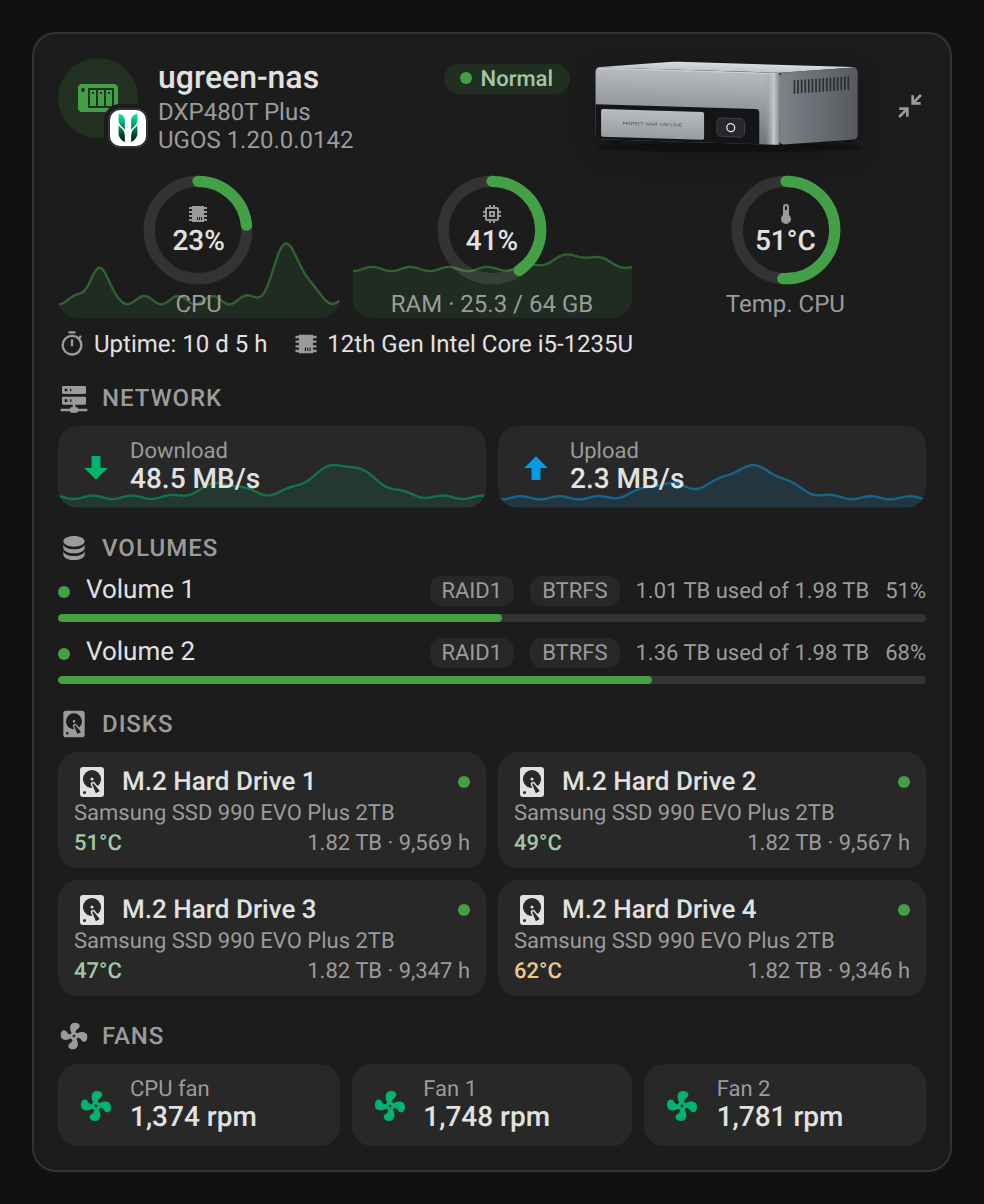
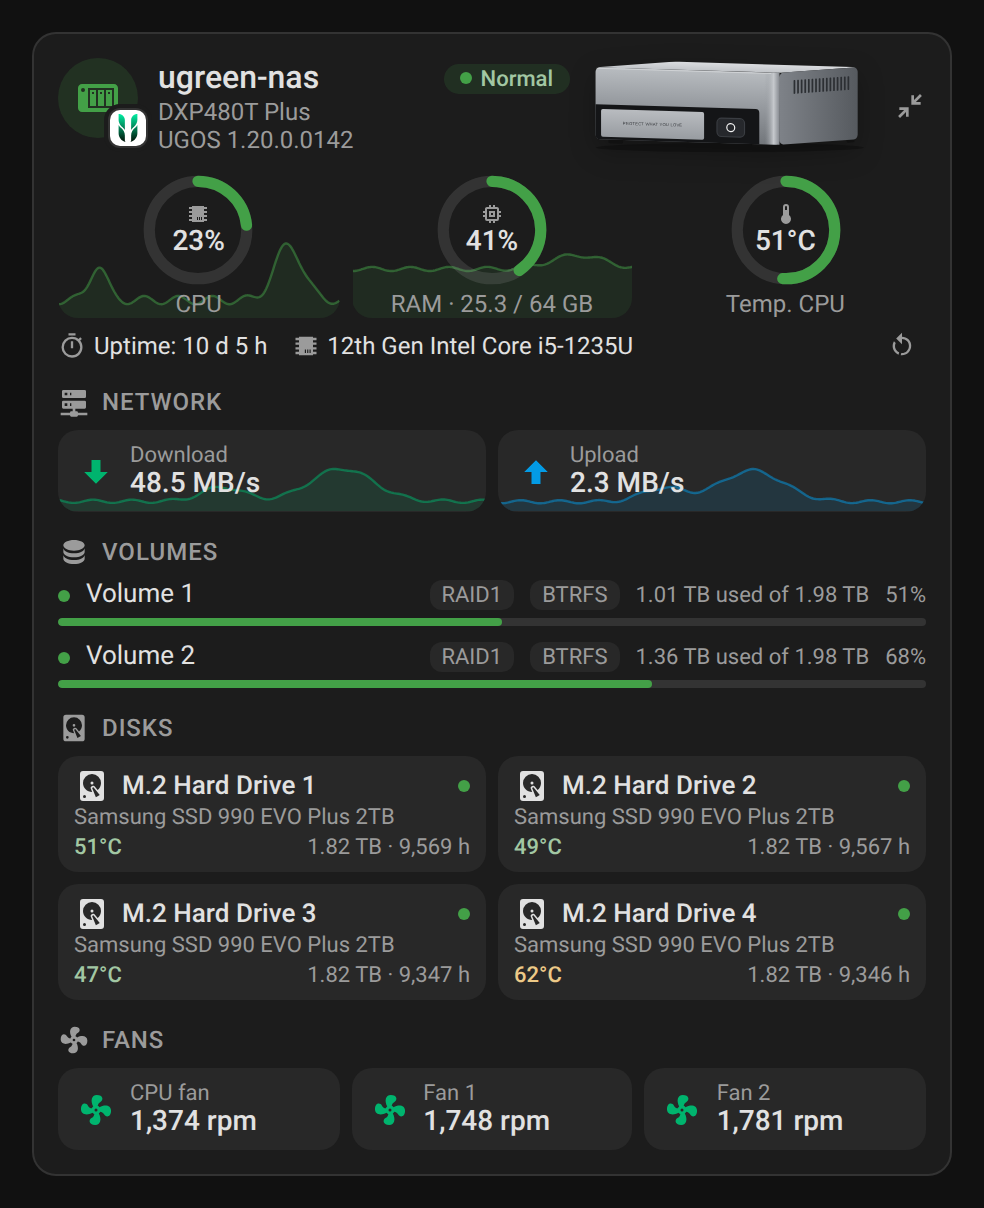
feat: UGREEN update chip and reboot button, UGOS version id of v2026.10.1 (1.21.0) (#70)
UGOS version read from nas_ugos_version or ugos_version (integration v2026.10.1), « Update available » chip from the Update Available sensor, reboot button from power_action_reboot matched to its NAS.

Claude-Session: https://claude.ai/code/session_01F4sAmz9SYNMBup1iWyQ3CQ

diff --git a/src/nas-card.js b/src/nas-card.js
@@ -1736,7 +1736,9 @@ const SFX = "(?:_\\d+)?$";
 const SCALARS = {
   name: "nas_name",
   model: "nas_model",
-  version: "nas_ugos_version",
+  // "NAS UGOS Version" became "UGOS Version" in the integration's v2026.10.1 (same key, so existing
+  // installs keep the old id); a NAS adopted since then gets "<prefix>_ugos_version".
+  version: "(?:nas_)?ugos_version",
   server_status: "server_status",
   system_message: "system_message",
   cpu_usage: "cpu_usage",
@@ -1749,8 +1751,11 @@ const SCALARS = {
   lan_up: "overall_lan_upload_raw",
   lan_down: "overall_lan_download_raw",
   cpu_fan: "cpu_fan",
+  update: "update_available", // "Update Available" (v2026.10.1): "True" while a newer UGOS is out.
 };
 const SCALAR_RE = Object.entries(SCALARS).map(([k, key]) => [k, new RegExp(`(?:^|_)${key}${SFX}`)]);
+// "Power Action: Reboot" button (integration v2026.05.1 and later). Buttons carry no UGNAS_device_id.
+const RE_REBOOT = new RegExp(`(?:^|_)power_action_reboot${SFX}`);
 const RE_FAN = new RegExp(`(?:^|_)device_fan_(\\d+)${SFX}`);
 const RE_POOL = new RegExp(`(?:^|_)pool_(\\d+)_(label|level|status|total_size|used_size|disk_count)${SFX}`);
 const RE_VOLUME = new RegExp(
@@ -1821,7 +1826,8 @@ const ugnasIds = (hass) => {
  */
 const discoverUgreen = (hass, nasId) => {
   const all = ugnasIds(hass);
-  const key = `${nasId || ""}\n${all.join(",")}`;
+  const reboots = rebootIds(hass);
+  const key = `${nasId || ""}\n${all.join(",")}\n${reboots.join(",")}`;
   if (_cache.has(key)) return _cache.get(key);
   if (_cache.size > 8) _cache.clear();
 
@@ -1857,12 +1863,37 @@ const discoverUgreen = (hass, nasId) => {
     }
   }
   if (nas.nasId) {
+    const reboot = ugreenReboot(hass, nas, all, reboots);
+    if (reboot) nas.scalars.reboot = reboot;
     _cache.set(key, nas);
     _lastGood.set(nas.nasId, nas);
     _lastGood.set(nasId || "", nas);
     return nas;
   }
   return offlineUgreen(hass, nasId) || nas;
+};
+
+// UGREEN reboot buttons among the integration's entities.
+const rebootIds = (hass) =>
+  candidateIds(hass)
+    .filter((id) => id.startsWith("button.") && hass.states[id] && RE_REBOOT.test(id.slice(7)))
+    .sort();
+
+// The reboot button of one UGREEN NAS. Buttons carry no UGNAS_device_id: the button is the one on the NAS's
+// device in the registry, else the one named after the NAS's entity prefix (UGNAS_device_id is that prefix),
+// else the only one of a single-NAS install.
+const ugreenReboot = (hass, nas, all, reboots) => {
+  if (!reboots.length) return undefined;
+  const root = (id) => rootDevice(hass, hass.entities?.[id]?.device_id)?.id;
+  const nasRoot = mappedIds(nas).map(root).find(Boolean);
+  if (nasRoot) {
+    const same = reboots.find((id) => root(id) === nasRoot);
+    if (same) return same;
+  }
+  const named = reboots.find((id) => id.slice(7).startsWith(`${nas.nasId}_`));
+  if (named) return named;
+  const single = new Set(all.map((id) => hass.states[id].attributes.UGNAS_device_id)).size === 1;
+  return single && reboots.length === 1 && !(nasRoot && root(reboots[0])) ? reboots[0] : undefined;
 };
 
 // Last mapping found for each UGREEN NAS (and for the default NAS under ""). When the integration's
@@ -2441,7 +2472,7 @@ class NasBase extends HTMLElement {
   }
 
   // Round reboot button at the end of the system facts (full card, zoomed mini card): only when the NAS exposes a
-  // reboot button (Synology DSM). Disabled while it is unavailable (a button never pressed is "unknown": its normal state).
+  // reboot button (UGREEN NAS, Synology DSM). Disabled while it is unavailable (a button never pressed is "unknown": its normal state).
   _rebootBtn(nas) {
     const id = nas.scalars.reboot;
     if (!id) return "";
@@ -2450,12 +2481,14 @@ class NasBase extends HTMLElement {
     return `<button class="action" data-action="reboot" title="${label}" aria-label="${label}"${disabled}>${svgIcon(ICONS.restart)}</button>`;
   }
 
-  // Update available (Synology DSM update entity on): the version it brings, for the update chip.
+  // Update available (Synology DSM update entity on, UGREEN "Update Available" sensor "True"): the version it
+  // brings, for the update chip.
   _updateInfo(nas) {
     const u = this._s(nas.scalars.update);
-    if (u?.state !== "on") return null;
-    const latest = u.attributes?.latest_version;
-    return { id: u.entity_id, text: this._t("update_available"), version: latest ? String(latest) : "" };
+    if (!u || !/^(on|true)$/i.test(String(u.state))) return null;
+    const latest = u.attributes?.latest_version ?? u.attributes?.available_version;
+    const version = latest && !/^unknown$/i.test(String(latest)) ? String(latest) : "";
+    return { id: u.entity_id, text: this._t("update_available"), version };
   }
 
   set hass(hass) {

diff --git a/README.md b/README.md
@@ -33,7 +33,7 @@ The cards are built on top of the [UGREEN NAS integration](https://github.com/To
 - Network download / upload rates, with their last 24 hours drawn behind each tile, on the full card and the mini card (recorder statistics)
 - Volumes with RAID level, filesystem, status and used space
 - Disks with model, status, temperature, size and power-on hours; the status dot turns red on any disk problem (on Synology also the SMART status and the bad sector / remaining life thresholds); a volume or disk without status entity has no dot
-- Synology: an « Update available » chip when DSM has an update (click for its more-info dialog), and a reboot button at the end of the system facts, with a confirmation popup at the top of the card
+- UGREEN and Synology: an « Update available » chip when UGOS or DSM has an update (click for its more-info dialog), and a reboot button at the end of the system facts, with a confirmation popup at the top of the card
 - Fans speed (CPU fan and case fans, UGREEN)
 - Status pill: the server status (UGREEN, QNAP) or the security status (Synology)
 - Colors turn orange / red when a threshold is crossed (CPU, RAM, temperatures, volume usage)
@@ -52,7 +52,7 @@ The cards are built on top of the [UGREEN NAS integration](https://github.com/To
 
 | Integration | NAS | What the cards show |
 |---|---|---|
-| [UGREEN NAS](https://github.com/Tom-Bom-badil/home-assistant_ugreen-nas) (Marketplace) | UGREEN DXP and DH | Everything: CPU, RAM, temperatures, network, volumes, disks, **fans**, server status, link to UGOS |
+| [UGREEN NAS](https://github.com/Tom-Bom-badil/home-assistant_ugreen-nas) (Marketplace) | UGREEN DXP and DH | Everything: CPU, RAM, temperatures, network, volumes, disks, **fans**, server status, UGOS version and update, reboot, link to UGOS |
 | [Synology DSM](https://www.home-assistant.io/integrations/synology_dsm/) (built in) | Synology | CPU, RAM, temperature, network, volumes, disks (status, SMART, bad sectors, remaining life), security status, DSM version and update, reboot, link to DSM; no fans |
 | [QNAP](https://www.home-assistant.io/integrations/qnap/) (built in) | QNAP | CPU, RAM, temperature, network, volumes, drives, server status, QTS / QuTS hero firmware; no fans |
 
@@ -221,6 +221,8 @@ Drawn QNAP models (graphite towers with the copper strip, rackmounts for the mod
 ### UGREEN NAS
 
 Every entity created by the integration carries a `UGNAS_device_id` attribute. The cards use it to gather the entities of a NAS, then recognize each sensor from the end of its entity id (`cpu_usage`, `pool_1_volume_1_used_size_raw`, `pool_2_disk_1_temperature`…). Entity ids de-duplicated by Home Assistant (for example `sensor.ugreen_nas_cpu_usage_2`) are supported, and so are renamed devices. Volume sizes are read from the `*_raw` sensors (bytes) so that the used space is exact whatever the unit chosen by the integration.
+
+The UGOS version is read from `nas_ugos_version` or, for a NAS adopted with integration v2026.10.1 or later (where the sensor became « UGOS Version »), from `ugos_version`. The **Update Available** sensor (v2026.10.1 and later) shows an « Update available » chip with the new UGOS version while it is `True`. The **Power Action: Reboot** button (`power_action_reboot`, v2026.05.1 and later) adds the reboot button at the end of the system facts, with the same confirmation popup as on Synology; buttons carry no `UGNAS_device_id`, so the cards pick the one on the NAS's device, or the one named after its entity prefix (shutdown and wake-up buttons are never used).
 
 ### Synology DSM and QNAP
 

diff --git a/CHANGELOG.md b/CHANGELOG.md
@@ -1,5 +1,14 @@
 # Changelog
 
+## 1.21.0 - 2026-11-09
+
+### Features
+- UGREEN: « Update available » chip with the new UGOS version while the integration's **Update Available** sensor is `True` (UGREEN NAS integration v2026.10.1 and later), on the full card and in the mini card's footer, like the DSM update on Synology.
+- UGREEN: reboot button at the end of the system facts, with its confirmation popup, pressing the integration's **Power Action: Reboot** button (v2026.05.1 and later). With several NAS, each card uses the button of its own NAS (device registry, then entity prefix); the shutdown and wake-up buttons are never used.
+
+### Fixes
+- UGREEN: the UGOS version under the model was missing for a NAS adopted with the integration's v2026.10.1 or later, whose « NAS UGOS Version » sensor became « UGOS Version » (`<prefix>_ugos_version`) when the prefix does not end with « nas ». Both ids are read.
+
 ## 1.20.1 - 2026-11-09
 
 ### Fixes
